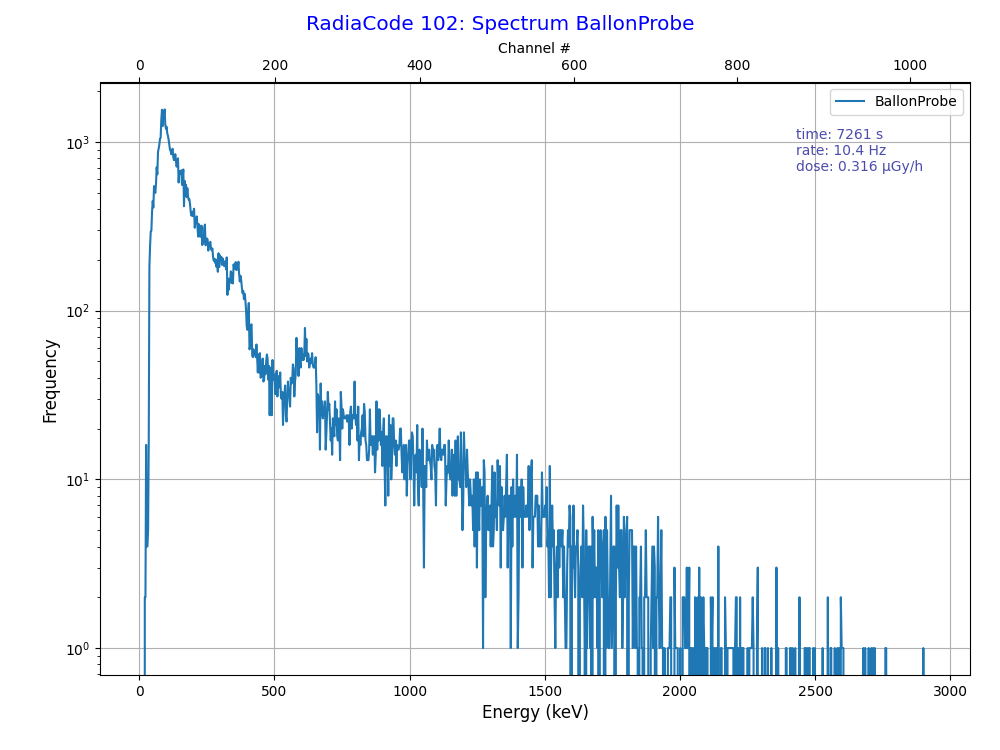
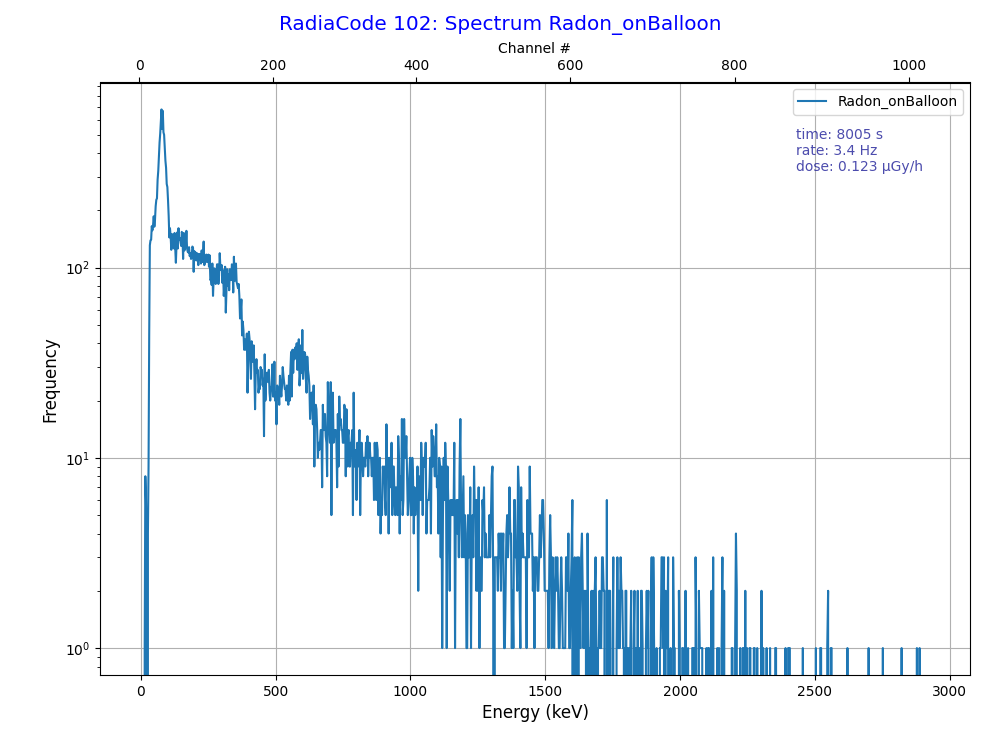
better differential spectrum

diff --git a/experiments/GammaSpectra.md b/experiments/GammaSpectra.md
@@ -134,18 +134,21 @@ Pb-14, Bi-214 and Po-214, as is shown in the graph below.
   ![Collection of Radon decay products on a (charged) balloon.](images/Ra-onBalloon.png)
 
 The observed spectrum is rather rich of features and leaves a clear finger print of 
-the presence of the original Ra, that is a noble gas and escapes from the earth, 
+the presence of the original Radon, that is a noble gas and escapes from the earth, 
 where it is produced in decays of the Uranium and Thorium chains. Radon is the
-dominant source of natural radioactive exposure of humans. 
+dominant source of natural radioactive exposure of humans. The recorded spectrum
+is shown below. Background radiation was shielded by placing the RC102 and the  
+balloon in a lead-shielded probe chamber. 
 
   ![Cumulative spectrum of a probe collected in a cellar on the surface of a balloon
-  shwoing clear evidence for decay products of the Radon decay chain.](
+  showing clear evidence for decay products of the Radon decay chain.](
   images/Radon_Spectrum.png) 
 
 #### Decrease of Radon-induced activity as a function of time
  
- A Radon sample as described above contains a number of short-lived daughter nuclei and therefore can be used to illustrate the time dependence of  the activity. Because several daughter nuclei are involved, the reduction of the initial activity does not strictly follow an exponential law. The number of counts in time-bins
-of 30s  is shown below. A clear rise of the activity above backbround level is seen, with decrease back to normal over approx. 2h. Note that several short-lived nuclei with different life-times are produced, and the decay therefore is not strictly described by an exponential function. 
+ A Radon sample as described above contains a number of short-lived daughter nuclei and therefore can be used to illustrate the time dependence of  the activity. The time dependence of the activity is shown in the graph below, which was recorded with *PhyPiDAQ*. Because several daughter nuclei are involved, the reduction of the initial activity does not strictly follow an exponential law. The number of counts in time-bins
+of 30 s  is shown below. A clear rise of the activity above background level is seen, and also the decrease back
+to normal over approx. 2 hours. Note that several short-lived nuclei with different life-times are produced, and the decay rate therefore is not strictly described by an exponential function. 
 
   ![Gamma rate of Radon decay products on a balloon (electrostatically charged by rubbing) 
   as a function of time.](images/Radon-decay.png)
